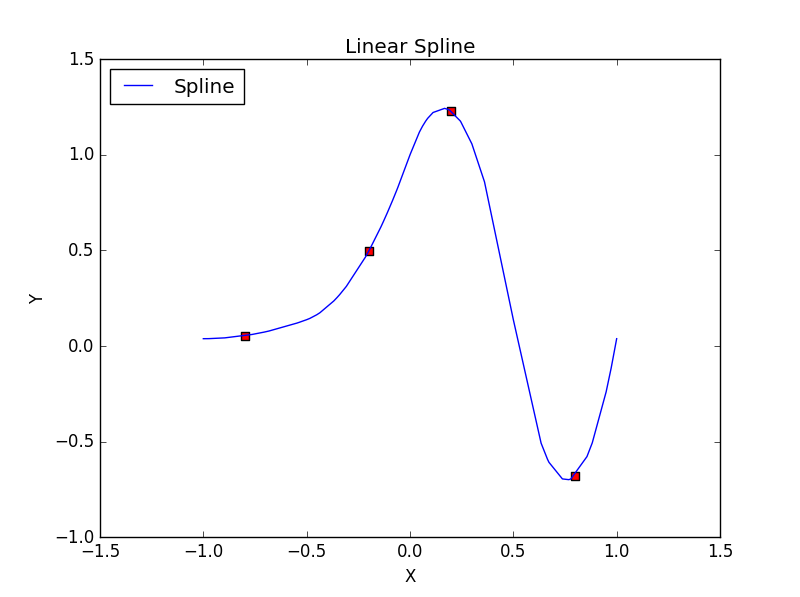
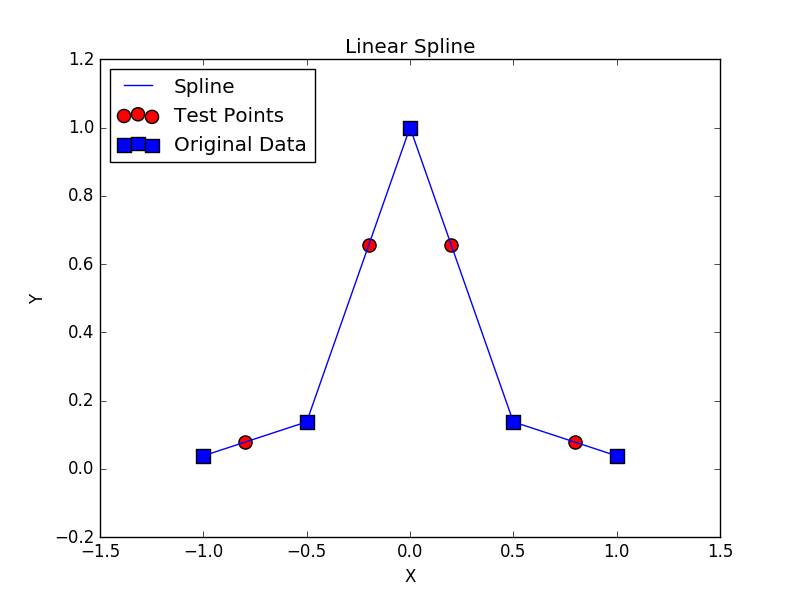
Improvements to graph plotting

diff --git a/LinearSpline.py b/LinearSpline.py
@@ -27,7 +27,7 @@ for xstar in xt:
     yt.append(ystar)
     print xstar,"\t",ystar
 import random
-t = [random.random()*(max(x) - min(x)) + min(x) for i in range(10*len(x))] + x
+t = [random.random()*(max(x) - min(x)) + min(x) for i in range(100*len(x))] + x
 t.sort()
 ty = [get_prediction(x,y,t[i]) for i in range(len(t))]
 
@@ -39,7 +39,8 @@ ax.set_title("Linear Spline")
 ax.set_ylabel("Y")
 ax.set_xlabel("X")
 ax.plot(t,ty, "-", label='Spline')
-ax.scatter(xt,yt, s=30, c='r', marker="s")
+ax.scatter(xt,yt, s=90, c='r', marker="o",label="Test Points")
+ax.scatter(x,y, s=90, c='b', marker="s",label="Original Data")
 plt.legend(loc='upper left')
 plt.show()
 fig.savefig("Plot.png")

diff --git a/QuadraticSpline.py b/QuadraticSpline.py
@@ -37,7 +37,7 @@ for xstar in xt:
     print xstar,"\t",ystar
 
 import random
-t = [random.random()*(max(x) - min(x)) + min(x) for i in range(10*len(x))] + x
+t = [random.random()*(max(x) - min(x)) + min(x) for i in range(100*len(x))] + x
 t.sort()
 ty = [get_prediction(x,y,z,t[i]) for i in range(len(t))]
 
@@ -49,7 +49,8 @@ ax.set_title("Linear Spline")
 ax.set_ylabel("Y")
 ax.set_xlabel("X")
 ax.plot(t,ty, "-", label='Spline')
-ax.scatter(xt,yt, s=30, c='r', marker="s")
+ax.scatter(xt,yt, s=90, c='r', marker="o",label="Test Points")
+ax.scatter(x,y, s=90, c='b', marker="s",label="Original Data")
 plt.legend(loc='upper left')
 plt.show()
 fig.savefig("Plot.png")
